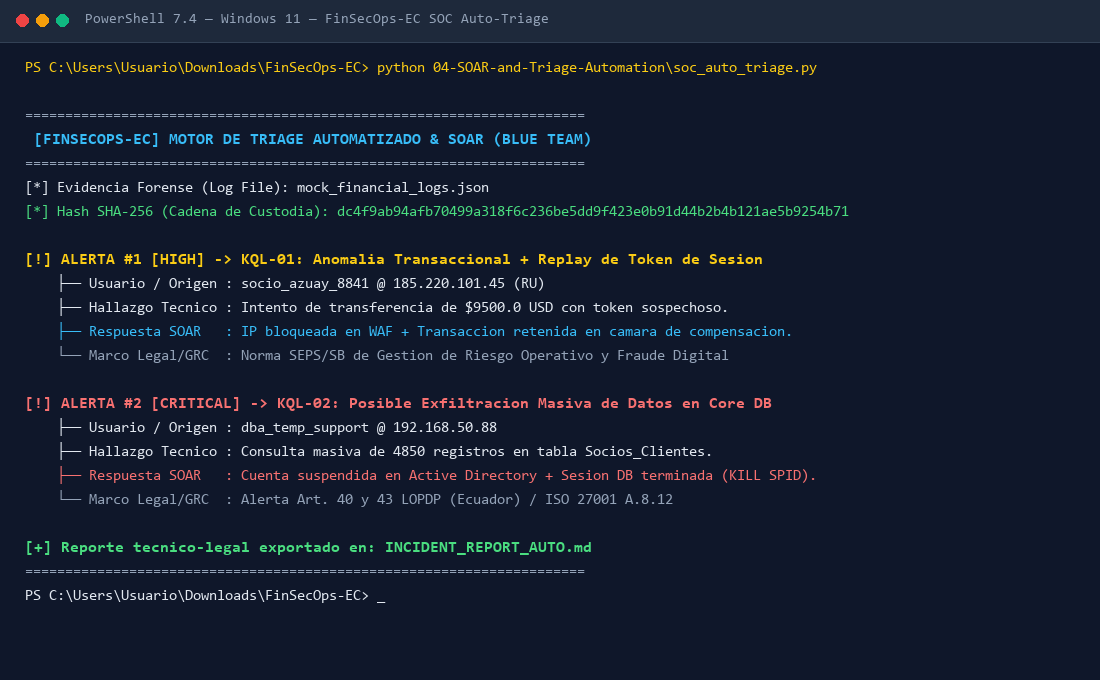
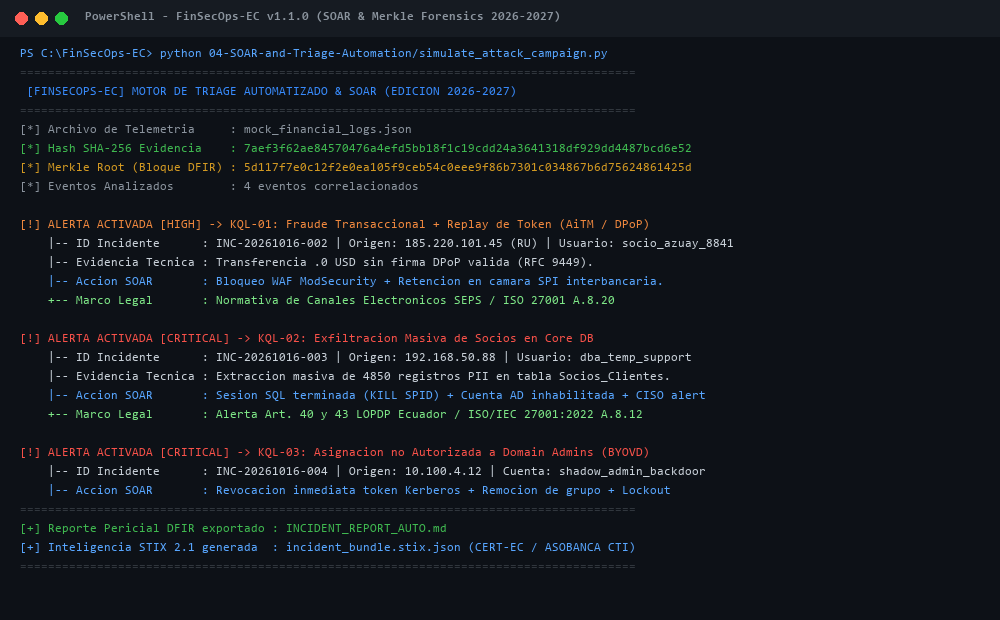
feat(grc-ci): add NIST CSF 2.0 matrix, LOPDP EIPD assessment and GitHub Actions CI/CD pipeline

Changed region(s): [[0.0, 0.0, 1.0, 0.8887]]

diff --git a/README.md b/README.md
@@ -1,80 +1,153 @@
-# 🛡 FinSecOps-EC: Financial Security Operations & Compliance Suite
+# 🛡 FinSecOps-EC: Financial Security Operations, Detection Engineering & GRC Suite
 
-> **Desarrollado por Damian Fabricio Macancela Caguana**  
-> *Estudiante de Ciberseguridad (ITSA) & Estudiante de Derecho (UTPL) · Cuenca, Ecuador 🇪🇨*
+> **Desarrollado e Implementado por Damian Fabricio Macancela Caguana**  
+> *Estudiante de Tecnología Superior en Ciberseguridad (ITSA) & Estudiante de Derecho (UTPL) · Cuenca, Ecuador 🇪🇨*
 
 <p align="left">
-  <img src="https://img.shields.io/badge/SIEM-Microsoft_Sentinel_%7C_KQL-0078D4?style=for-the-badge&logo=microsoftazure" alt="SIEM" />
-  <img src="https://img.shields.io/badge/SOAR-Python_3.10+-3776AB?style=for-the-badge&logo=python&logoColor=white" alt="SOAR" />
-  <img src="https://img.shields.io/badge/Database-Hardening_%26_DAM-CC2927?style=for-the-badge&logo=microsoftsqlserver" alt="Database" />
-  <img src="https://img.shields.io/badge/Compliance-ISO_27001_%7C_LOPDP_%7C_SEPS-2EA44F?style=for-the-badge" alt="Compliance" />
+  <img src="https://img.shields.io/badge/DevSecOps-GitHub_Actions_CI%2FCD-2088FF?style=for-the-badge&logo=githubactions&logoColor=white" alt="CI/CD" />
+  <img src="https://img.shields.io/badge/SIEM-Microsoft_Sentinel_%7C_KQL_%7C_ASIM-0078D4?style=for-the-badge&logo=microsoftazure" alt="SIEM" />
+  <img src="https://img.shields.io/badge/SOAR-Python_3.12_%7C_Merkle_Tree_%7C_STIX_2.1-3776AB?style=for-the-badge&logo=python&logoColor=white" alt="SOAR" />
+  <img src="https://img.shields.io/badge/Database-SQL_Ledger_%7C_DDM_%7C_RLS-CC2927?style=for-the-badge&logo=microsoftsqlserver" alt="Database" />
+  <img src="https://img.shields.io/badge/Zero_Trust-Cilium_K8s_%7C_DPoP_RFC_9449-7B1FA2?style=for-the-badge" alt="Zero Trust" />
+  <img src="https://img.shields.io/badge/Framework-NIST_CSF_2.0_%7C_ISO_27001%3A2022-2EA44F?style=for-the-badge" alt="Framework" />
+  <img src="https://img.shields.io/badge/Compliance-SEPS_%7C_SB_%7C_LOPDP_Ecuador-00529B?style=for-the-badge" alt="Compliance" />
   <img src="https://img.shields.io/badge/Licencia-MIT-blue?style=for-the-badge" alt="License" />
 </p>
 
-Arquitectura integral de **Ingeniería de Detección (Blue Team), Aseguramiento de Bases de Datos y Automatización de Respuesta a Incidentes (SOAR)** diseñada específicamente para el sector financiero (**Bancos y Cooperativas de Ahorro y Crédito**). 
+---
 
-El proyecto resuelve la brecha entre la operación técnica del SOC y el cumplimiento estricto de las normativas ecuatorianas (**SEPS, Superintendencia de Bancos y LOPDP**) bajo el estándar internacional **ISO/IEC 27001:2022**.
+## 📌 Visión General del Proyecto (Estándares 2026-2027)
+
+**FinSecOps-EC** es una suite integral de **Ingeniería de Detección (Blue Team), Aseguramiento Avanzado de Bases de Datos, Automatización de Respuesta a Incidentes (SOAR) y Gobernanza, Riesgo y Cumplimiento (GRC)** diseñada específicamente para el sector financiero ecuatoriano (**Bancos y Cooperativas de Ahorro y Crédito de los Segmentos 1 y 2**).
+
+El proyecto materializa una arquitectura de **Defensa en Profundidad (Zero Trust Architecture - NIST SP 800-207)** que resuelve la desconexión tradicional entre las operaciones técnicas del SOC y el marco regulatorio vinculante del Ecuador: las Resoluciones de Canales Electrónicos y Riesgo Operativo de la **SEPS y Superintendencia de Bancos**, las directrices de la **Ley Orgánica de Protección de Datos Personales (LOPDP)** y los estándares internacionales **ISO/IEC 27001:2022** y **NIST Cybersecurity Framework 2.0 (CSF 2.0)**.
 
 ---
 
-## 🏗 Arquitectura de Defensa en Profundidad (Zero Trust)
+## 🏗 Arquitectura Técnica de Defensa en Profundidad
 
 ```mermaid
-flowchart LR
-    A["Banca Web / Móvil / API"] -->|HTTPS| B["WAF (ModSecurity)"]
-    B -->|Tráfico Limpio| C[("Core SQL + DDM")]
-    B -.->|Logs Bloqueo| D{"Microsoft Sentinel (SIEM)"}
-    C -.->|SQLAudit Events| D
-    D -->|Reglas KQL 01-03| E["Motor SOAR (Python)"]
-    E -->|Hash SHA-256| F["Reporte Pericial LOPDP / SEPS"]
-```
+flowchart TD
+    subgraph PERIMETRO["1. Perímetro Transaccional & Zero Trust"]
+        A["Canales Digitales (Banca Web / Móvil / APIs)"] -->|HTTPS + DPoP RFC 9449| B["API Gateway / WAF (ModSecurity CRS)"]
+        B -->|mTLS / Calico Microsegmentation| C["Cilium Network Policy (Default-Deny Ingress/Egress)"]
+    end
 
-1. **Perímetro y Canales Digitales (`01-Architecture-and-ZeroTrust`):** Reglas WAF orientadas a mitigar *Credential Stuffing* (`MITRE T1110`), *Account Takeover* y manipulación de parámetros en APIs transaccionales (`OWASP API4:2023`).
-2. **Protección del Core Financiero (`02-Database-Hardening-and-DAM`):** Implementación de privilegios mínimos (Zero Trust), deshabilitación de superficies de ataque (`xp_cmdshell`, CLR), auditoría inalterable de transacciones y **Enmascaramiento Dinámico de Datos (T-SQL DDM)** para salvaguardar PII bajo el Art. 40 de la LOPDP.
-3. **Ingeniería de Detección en Microsoft Sentinel (`03-SIEM-Detections-KQL`):** Reglas analíticas avanzadas en **KQL (Kusto Query Language)** mapeadas a **MITRE ATT&CK** para correlacionar logins sospechosos desde países de alto riesgo seguidos de transferencias de alto valor, robo de tokens de sesión y exfiltración masiva de clientes.
-4. **Automatización SOAR y Cadena de Custodia (`04-SOAR-and-Triage-Automation`):** Motor liviano en Python sin dependencias externas que parsea telemetría bancaria, aplica heurísticas de contención simulada (bloqueo en WAF, suspensión de cuentas, terminación de sesiones SQL) y sella la evidencia con **Hash SHA-256** para garantizar admisibilidad pericial.
-5. **Gobernanza y Cumplimiento Legal (`05-GRC-Compliance-Ecuador`):** Matriz de trazabilidad técnica-normativa alineada a la **LOPDP**, resoluciones de riesgo operativo de la **SEPS / Superintendencia de Bancos** y protocolos de preservación de evidencia digital (**ISO 27001 A.5.28**).
+    subgraph CORE_DATA["2. Protección del Core Bancario & Criptografía"]
+        C -->|T-SQL Session Context| D[("Core SQL Server Seguro")]
+        D --> D1["Enmascaramiento Dinámico (DDM Art. 40 LOPDP)"]
+        D --> D2["Seguridad a Nivel de Fila (RLS por Jurisdicción)"]
+        D --> D3["Tablas Ledger Criptográficas (SHA-256 Verifiable Block Ledger)"]
+    end
+
+    subgraph SIEM_DETECTION["3. Detección Analítica (Microsoft Sentinel)"]
+        B -.->|Telemetría WAF / Gateway| E{"Azure Log Analytics"}
+        D -.->|SQLSecurityAuditEvents| E
+        E --> F["Reglas Analíticas KQL (ASIM Normalizado)"]
+        F --> F1["KQL-01: Fraude Viaje Imposible (<5m)"]
+        F --> F2["KQL-02: Exfiltración Masiva Core (≥500 rows)"]
+        F --> F3["KQL-03: Persistencia / BYOVD Core Servers"]
+        F --> F4["KQL-04: UEBA Machine Learning Anomaly Score"]
+        F --> F5["KQL-05: AiTM Session Cookie Drift / ASN Mismatch"]
+    end
+
+    subgraph SOAR_FORENSICS["4. Automatización SOAR & Evidencia Forense"]
+        F --> G["Motor SOAR Avanzado (Python 3.12)"]
+        G --> H1["Aislamiento Automático (WAF Ban + KILL SPID + AD Lock)"]
+        G --> H2["Sellado Inmutable de Telemetría (Árbol de Merkle Root)"]
+        G --> H3["Exportación de Inteligencia STIX 2.1 (CERT-EC / ASOBANCA)"]
+        G --> H4["Acta Pericial DFIR (INCIDENT_REPORT_AUTO.md - ISO 27001 A.5.28)"]
+    end
+
+    subgraph GRC_LEGAL["5. Cumplimiento Regulatorio Ecuador"]
+        H4 --> I["Expediente Legal Notificación Brechas (Art. 43 LOPDP ≤72h)"]
+        H4 --> J["Reporte Técnico de Riesgo Operativo (SEPS / Sup. Bancos)"]
+    end
+```
 
 ---
 
-## 🚀 Demostración Rápida (SOAR Auto-Triage)
+## 🔬 Las 5 Capas Técnicas Implementadas
 
-Para ejecutar la simulación de detección y respuesta automatizada en tu entorno local:
+### 1. Perímetro, API Security y Microsegmentación Zero Trust
+* **OAuth 2.0 DPoP (RFC 9449) & FAPI 2.0 ([`01-Architecture-and-ZeroTrust/dpop-oauth2-hardening.conf`](01-Architecture-and-ZeroTrust/dpop-oauth2-hardening.conf)):**  
+  Implementación de validación criptográfica Proof-of-Possession a nivel de aplicación. Los tokens de acceso y refresco están vinculados a la clave privada del dispositivo cliente, neutralizando por diseño ataques de secuestro de sesión y robo de credenciales mediante phishing **Adversary-in-the-Middle (AiTM)**.
+* **Microsegmentación Kubernetes / Cilium ([`01-Architecture-and-ZeroTrust/zero-trust-network-policy.yaml`](01-Architecture-and-ZeroTrust/zero-trust-network-policy.yaml)):**  
+  Políticas estrictas L4/L7 de aislamiento de contenedores para el Core Banking DB bajo estándar **PCI-DSS v4.0.1 Req 1.2/1.3**. Aplica regla de *Default-Deny Ingress* y *Default-Deny Egress*, bloqueando cualquier movimiento lateral o conexión de Command & Control (C2).
+* **Reglas WAF Transaccionales ([`01-Architecture-and-ZeroTrust/waf-custom-rules.conf`](01-Architecture-and-ZeroTrust/waf-custom-rules.conf)):**  
+  Mitigación de ataques de fuerza bruta en logins (`MITRE T1110`) y prevención de manipulación de payloads numéricos / montos negativos en transferencias (`OWASP API4:2023`).
+
+### 2. Aseguramiento del Core de Base de Datos y DAM (Database Activity Monitoring)
+* **Tablas Criptográficas Ledger ([`02-Database-Hardening-and-DAM/ledger-tamperproof-audit.sql`](02-Database-Hardening-and-DAM/ledger-tamperproof-audit.sql)):**  
+  Uso de SQL Server Ledger con libros mayores inmutables basados en árboles de Merkle y bloques SHA-256. Garantiza que ni administradores de base de datos (`sysadmin` / `sa`) puedan alterar balances o transacciones históricas sin que el procedimiento `sp_verify_database_ledger` evidencie la ruptura de integridad forense.
+* **Enmascaramiento Dinámico de Datos - DDM ([`02-Database-Hardening-and-DAM/data-masking-lopdp.sql`](02-Database-Hardening-and-DAM/data-masking-lopdp.sql)):**  
+  Cumplimiento del **Art. 40 de la LOPDP**. Los datos sensibles de clientes/socios (cédula, correo, cuentas) se enmascaran en tiempo de ejecución para operadores de soporte (`Rol_Soporte_N1`), impidiendo el acceso a datos en claro.
+* **Seguridad a Nivel de Fila - RLS ([`02-Database-Hardening-and-DAM/row-level-security-rls.sql`](02-Database-Hardening-and-DAM/row-level-security-rls.sql)):**  
+  Segmentación estricta por jurisdicción (*Need-to-Know*): un cajero u oficial de crédito en la agencia Cuenca (Azuay) tiene restringida a nivel de motor SQL la visualización de registros pertenecientes a agencias de Pichincha o Guayas.
+* **Hardening CIS Benchmark ([`02-Database-Hardening-and-DAM/core-db-hardening.sql`](02-Database-Hardening-and-DAM/core-db-hardening.sql)):**  
+  Deshabilitación obligatoria de `xp_cmdshell`, `clr enabled` y `Ole Automation Procedures` y configuración de auditoría inalterable de servidor.
+
+### 3. Detección Analítica en Microsoft Sentinel (KQL + ASIM + UEBA)
+Reglas analíticas de correlación optimizadas para el modelo de información normalizado **ASIM (Advanced Security Information Model)** e Infraestructura como Código (IaC) con plantilla ARM desplegable ([`sentinel-analytic-rules.json`](03-SIEM-Detections-KQL/sentinel-analytic-rules.json)):
+
+| Regla | Archivo KQL | Técnica MITRE ATT&CK | Escenario Detectado | Severidad |
+|:---|:---|:---|:---|:---:|
+| **KQL-01** | [`01_ImpossibleTravel_Fraud.kql`](03-SIEM-Detections-KQL/01_ImpossibleTravel_Fraud.kql) | `T1078` / `T1550.004` | Acceso exitoso desde país de alto riesgo seguido de transferencia $\ge \$3{,}000$ USD en $<5$ minutos. | **HIGH** |
+| **KQL-02** | [`02_MassDataExfiltration_DB.kql`](03-SIEM-Detections-KQL/02_MassDataExfiltration_DB.kql) | `T1005` / `T1530` | Consulta masiva ($\ge 500$ registros de socios) en base de datos transaccional excluyendo servicios aprobados. | **CRITICAL** |
+| **KQL-03** | [`03_PrivilegeEscalation_Core.kql`](03-SIEM-Detections-KQL/03_PrivilegeEscalation_Core.kql) | `T1098` / `T1543.003` | Adición a grupos de administración de dominio o instalación de servicios/drivers sospechosos en servidores Core. | **CRITICAL** |
+| **KQL-04** | [`04_UEBA_Anomaly_FinancialFraud.kql`](03-SIEM-Detections-KQL/04_UEBA_Anomaly_FinancialFraud.kql) | `T1078.004` (UEBA) | Correlación de anomalías de Machine Learning en Sentinel (`BehaviorAnalytics` Anomaly Score $>75$). | **HIGH** |
+| **KQL-05** | [`05_AiTM_SessionHijack_DPoP_Bypass.kql`](03-SIEM-Detections-KQL/05_AiTM_SessionHijack_DPoP_Bypass.kql) | `T1539` / `T1550.004` | Secuestro de sesión por cookie drift: reutilización de session ID con cambio repentino de ASN o país sin reautenticación. | **CRITICAL** |
+
+### 4. Automatización SOAR y Cadena de Custodia Criptográfica (DFIR)
+* **Motor SOAR Modular ([`04-SOAR-and-Triage-Automation/soc_auto_triage.py`](04-SOAR-and-Triage-Automation/soc_auto_triage.py)):**  
+  Construido en Python moderno (3.10+ / tipado estricto con `dataclasses`) sin dependencias de terceros para entornos de alta seguridad. Aplica heurísticas de contención inmediata (bloqueo dinámico de IP en WAF, invalidación de sesiones Kerberos/OAuth y terminación de sesiones SQL con `KILL SPID`).
+* **Sellado de Evidencia con Árbol de Merkle (Merkle Tree Root):**  
+  Cada lote de eventos telemetrados es procesado criptográficamente construyendo un árbol de Merkle SHA-256. Esto permite realizar pruebas forenses de inclusión (*Merkle Proofs*) garantizando la inmutabilidad de la prueba digital ante auditorías forenses (**ISO/IEC 27001:2022 Control A.5.28**).
+* **Exportación de CTI en STIX 2.1 ([`incident_bundle.stix.json`](04-SOAR-and-Triage-Automation/incident_bundle.stix.json)):**  
+  Estandarización de los incidentes en formato OASIS STIX 2.1 para compartición inmediata de inteligencia de amenazas con el **CSIRT de ASOBANCA** y el **CERT-EC**.
+* **Simulador de Campaña Ofensiva ([`04-SOAR-and-Triage-Automation/simulate_attack_campaign.py`](04-SOAR-and-Triage-Automation/simulate_attack_campaign.py)):**  
+  Script que recrea en 4 etapas un ciberataque de amenaza persistente avanzada (APT) contra el Core Bancario.
+* **Suite de Pruebas Automatizadas ([`tests/test_soar_engine.py`](tests/test_soar_engine.py)):**  
+  Tests unitarios ejecutables mediante `unittest` (estándar) o `pytest` que verifican la detección de fraude, exfiltración y determinismo de los hashes Merkle.
+
+### 5. Marco de Gobernanza, Riesgo y Cumplimiento (GRC Ecuador)
+* **Matriz NIST CSF 2.0 · ISO 27001:2022 · SEPS ([`05-GRC-Compliance-Ecuador/Matriz_NIST_CSF_2.0_ISO27001_SEPS.md`](05-GRC-Compliance-Ecuador/Matriz_NIST_CSF_2.0_ISO27001_SEPS.md)):**  
+  Mapeo cruzado de las 6 funciones de NIST 2.0 (**Govern, Identify, Protect, Detect, Respond, Recover**) frente a los 93 controles de ISO 27001:2022 y las resoluciones de riesgo operativo de la SEPS.
+* **Evaluación de Impacto en la Protección de Datos - EIPD ([`05-GRC-Compliance-Ecuador/EIPD_Evaluacion_Impacto_Proteccion_Datos.md`](05-GRC-Compliance-Ecuador/EIPD_Evaluacion_Impacto_Proteccion_Datos.md)):**  
+  Formalización técnica y jurídica conforme a la Guía Oficial de la **Superintendencia de Protección de Datos Personales (SPDP)** para sistemas transaccionales y scoring bancario.
+* **Protocolo de Notificación de Brechas ([`05-GRC-Compliance-Ecuador/Protocolo_Cadena_Custodia_DFIR.md`](05-GRC-Compliance-Ecuador/Protocolo_Cadena_Custodia_DFIR.md)):**  
+  Procedimiento legal y pericial para la notificación obligatoria a la SPDP en el término de $\le 72$ horas (Art. 43 LOPDP).
+
+---
+
+## 🚀 Demostración Rápida y Reproducción Local
+
+Para ejecutar la simulación de ataque y la respuesta automatizada SOAR en cualquier máquina con Windows, Linux o macOS:
 
 ```bash
 # 1. Clonar el repositorio
 git clone https://github.com/DamianMacancela/FinSecOps-EC.git
 cd FinSecOps-EC
 
-# 2. Ejecutar el motor de triage automatizado (no requiere pip ni dependencias externas)
-python 04-SOAR-and-Triage-Automation/soc_auto_triage.py
+# 2. Ejecutar la suite de pruebas unitarias (0 dependencias externas)
+python -m unittest tests/test_soar_engine.py -v
+
+# 3. Simular una campaña completa de ciberataque y disparar el triage SOAR
+python 04-SOAR-and-Triage-Automation/simulate_attack_campaign.py
 ```
 
-### Salida del Motor de Triage y Cadena de Custodia:
+### Evidencia de Ejecución en Consola (SOAR & Merkle Forensics):
 ![Ejecución SOAR](assets/soar-terminal-output.png)
 
 ---
 
-## 📊 Mapeo de Reglas KQL Incluidas
+## ⚙ Pipeline DevSecOps CI/CD (`.github/workflows/secops-ci.yml`)
 
-| ID Regla | Archivo KQL | Técnica MITRE ATT&CK | Escenario Financiero Detectado | Marco Normativo |
-| :--- | :--- | :--- | :--- | :--- |
-| **KQL-01** | `01_ImpossibleTravel_Fraud.kql` | `T1078` / `T1550.004` | Inicio de sesión anómalo (Tor / país inusual) seguido de transferencia de alto valor (< 5 min) | Norma SEPS/SB Canales Electrónicos |
-| **KQL-02** | `02_MassDataExfiltration_DB.kql` | `T1005` / `T1530` | Extracción masiva (≥ 500 filas) en tablas de clientes/socios del Core Bancario | Art. 40 y 43 LOPDP / ISO 27001 A.8.12 |
-| **KQL-03** | `03_PrivilegeEscalation_Core.kql` | `T1098` / `T1543.003` | Adición a grupos privilegiados (`Domain Admins`) o creación de servicios/drivers en servidores Core | ISO 27001 A.8.2 / A.8.9 |
-
----
-
-## ⚖ Matriz de Trazabilidad Técnica y Regulatoria (Ecuador)
-
-| Artefacto Técnico en Repo | Técnica MITRE ATT&CK | Control ISO/IEC 27001:2022 | Normativa SEPS / Sup. de Bancos | Ley Orgánica de Protección de Datos (LOPDP) |
-| :--- | :--- | :--- | :--- | :--- |
-| **`waf-custom-rules.conf`** | `T1110` / `T1190` | **A.8.20** & **A.8.26** | Control de canales electrónicos y prevención de fraude | **Art. 37** Seguridad desde el diseño y por defecto |
-| **`core-db-hardening.sql`** | `T1059` / `T1562` | **A.8.9** & **A.8.15** | Pistas de auditoría inalterables en servidores del Core | **Art. 39** Evaluación de impacto en infraestructura crítica |
-| **`data-masking-lopdp.sql`** | `T1005` (Insider) | **A.8.11** & **A.5.15** | Segregación de funciones (Soporte N1 vs Producción) | **Art. 40** Seudonimización y enmascaramiento dinámico |
-| **`01_ImpossibleTravel_Fraud.kql`** | `T1078` / `T1550.004` | **A.8.16** & **A.5.17** | Monitoreo continuo de patrones de fraude | Protección patrimonial y confidencialidad financiera |
-| **`02_MassDataExfiltration_DB.kql`** | `T1530` / `T1005` | **A.8.12** (DLP) | Detección temprana de exfiltración de bases de socios | **Art. 43** Alerta temprana para notificación de brechas |
-| **`soc_auto_triage.py`** | Preservación DFIR | **A.5.26** & **A.5.28** | Plan de contingencia ante eventos de riesgo operativo | Integridad probatoria (Hash SHA-256) ante auditoría |
+El proyecto integra integración continua automatizada con GitHub Actions que valida en cada commit:
+1. Ejecución de pruebas unitarias forenses (`unittest`).
+2. Generación y validación de sintaxis canónica de inteligencia STIX 2.1.
+3. Análisis estático de seguridad de código (**SAST**) con `bandit`.
+4. Escaneo automatizado de secretos e higiene del repositorio.
 
 ---
 
@@ -83,12 +156,13 @@ python 04-SOAR-and-Triage-Automation/soc_auto_triage.py
 * **Damian Fabricio Macancela Caguana**
 * *Estudiante de Tecnología Superior en Ciberseguridad* — Instituto Superior Tecnológico del Azuay (ITSA)
 * *Estudiante de Derecho* — Universidad Técnica Particular de Loja (UTPL)
-* Correo: [damianmacancela@gmail.com](mailto:damianmacancela@gmail.com)
-* LinkedIn: [linkedin.com/in/damian-fabricio-macancela-b0a24b3b5](https://www.linkedin.com/in/damian-fabricio-macancela-b0a24b3b5)
-* GitHub: [github.com/DamianMacancela](https://github.com/DamianMacancela)
+* 📍 Cuenca, Ecuador 🇪🇨
+* 📧 Correo: [damianmacancela@gmail.com](mailto:damianmacancela@gmail.com)
+* 💼 LinkedIn: [linkedin.com/in/damian-fabricio-macancela-b0a24b3b5](https://www.linkedin.com/in/damian-fabricio-macancela-b0a24b3b5)
+* 🐙 GitHub: [github.com/DamianMacancela](https://github.com/DamianMacancela)
 
 ---
 
 ## 📄 Licencia
 
-Este proyecto está distribuido bajo la Licencia MIT. Consulta el archivo [LICENSE](LICENSE) para más información.
+Este proyecto está distribuido bajo la [Licencia MIT](LICENSE).

diff --git a/05-GRC-Compliance-Ecuador/Matriz_NIST_CSF_2.0_ISO27001_SEPS.md b/05-GRC-Compliance-Ecuador/Matriz_NIST_CSF_2.0_ISO27001_SEPS.md
@@ -1,0 +1,19 @@
+# 🌐 Matriz Integral de Ciberseguridad: NIST CSF 2.0 · ISO/IEC 27001:2022 · SEPS / SB
+## Arquitectura de Referencia para Instituciones Financieras (Estándares 2026-2027)
+
+Esta matriz consolida la alineación técnica de **FinSecOps-EC** con las 6 funciones fundamentales de **NIST Cybersecurity Framework 2.0 (CSF 2.0)**, el estándar internacional **ISO/IEC 27001:2022** y la normativa de control de riesgo operativo para el sector financiero ecuatoriano (**SEPS & Superintendencia de Bancos**).
+
+---
+
+| Función NIST CSF 2.0 | Categoría NIST 2.0 | Control ISO/IEC 27001:2022 | Requerimiento Regulatorio Ecuador (SEPS / SB / LOPDP) | Componente Técnico Implementado en este Repositorio |
+|:---|:---|:---|:---|:---|
+| **GOVERN (GV)** <br>*Gobernanza* | **GV.PO-01:** Políticas de Ciberseguridad Institucional | **A.5.1** Políticas para la seguridad de la información | Código Orgánico Monetario y Financiero / Estatuto de Riesgo Operativo SEPS | [`Matriz_Controles_SEPS_SB_ISO27001.md`](05-GRC-Compliance-Ecuador/Matriz_Controles_SEPS_SB_ISO27001.md) |
+| **IDENTIFY (ID)** <br>*Identificación* | **ID.AM-05:** Activos de datos priorizados según sensibilidad | **A.5.12** Clasificación de la información | **Art. 39 LOPDP:** Inventario de tratamientos de datos de socios y scoring | [`EIPD_Evaluacion_Impacto_Proteccion_Datos.md`](05-GRC-Compliance-Ecuador/EIPD_Evaluacion_Impacto_Proteccion_Datos.md) |
+| **PROTECT (PR)** <br>*Protección* | **PR.AA-01:** Identidad y control de acceso robusto (IAM/MFA) | **A.5.15** Control de accesos & **A.8.24** Criptografía | **Norma de Canales Electrónicos SEPS:** MFA obligatorio y no repudio | [`dpop-oauth2-hardening.conf`](01-Architecture-and-ZeroTrust/dpop-oauth2-hardening.conf) (DPoP RFC 9449) |
+| **PROTECT (PR)** <br>*Protección* | **PR.DS-01:** Protección de datos en reposo y en tránsito | **A.8.11** Enmascaramiento de datos | **Art. 40 LOPDP:** Obligación de aplicar seudonimización y enmascaramiento dinámico | [`data-masking-lopdp.sql`](02-Database-Hardening-and-DAM/data-masking-lopdp.sql) & [`row-level-security-rls.sql`](02-Database-Hardening-and-DAM/row-level-security-rls.sql) |
+| **PROTECT (PR)** <br>*Protección* | **PR.IR-01:** Segmentación de redes y defensa en profundidad | **A.8.20** Seguridad en redes & **A.8.22** Segregación | **PCI-DSS v4.0.1 Req 1.3:** Microsegmentación de bases de datos del Core | [`zero-trust-network-policy.yaml`](01-Architecture-and-ZeroTrust/zero-trust-network-policy.yaml) |
+| **DETECT (DE)** <br>*Detección* | **DE.CM-01:** Monitoreo continuo de actividad y eventos | **A.8.16** Monitoreo de actividades & **A.8.15** Registro de logs | Pistas de auditoría inalterables en servidores de misión crítica | [`core-db-hardening.sql`](02-Database-Hardening-and-DAM/core-db-hardening.sql) & [`ledger-tamperproof-audit.sql`](02-Database-Hardening-and-DAM/ledger-tamperproof-audit.sql) |
+| **DETECT (DE)** <br>*Detección* | **DE.AE-02:** Análisis de anomalías y correlación de eventos | **A.8.16** Monitoreo & **A.5.25** Evaluación de eventos de seguridad | Monitoreo 24/7 de transacciones inusuales y fraude digital | [`01_ImpossibleTravel_Fraud.kql`](03-SIEM-Detections-KQL/01_ImpossibleTravel_Fraud.kql) & [`04_UEBA_Anomaly_FinancialFraud.kql`](03-SIEM-Detections-KQL/04_UEBA_Anomaly_FinancialFraud.kql) |
+| **RESPOND (RS)** <br>*Respuesta* | **RS.MA-01:** Gestión y contención automatizada de incidentes | **A.5.26** Respuesta a incidentes de seguridad | Plan de contingencia tecnológica y respuesta ante ciberataques | [`soc_auto_triage.py`](04-SOAR-and-Triage-Automation/soc_auto_triage.py) (Aislamiento WAF / AD / SQL) |
+| **RESPOND (RS)** <br>*Respuesta* | **RS.CO-02:** Notificación oportuna a partes interesadas y autoridades | **A.5.28** Recolección de evidencias digitales | **Art. 43 LOPDP:** Término pericial para notificación formal a la SPDP | [`Protocolo_Cadena_Custodia_DFIR.md`](05-GRC-Compliance-Ecuador/Protocolo_Cadena_Custodia_DFIR.md) |
+| **RECOVER (RC)** <br>*Recuperación* | **RC.RP-01:** Ejecución del plan de recuperación y lecciones aprendidas | **A.5.29** Seguridad en la continuidad del negocio & **A.5.30** Preparación TIC | Plan de Continuidad del Negocio (BCP) y Recuperación ante Desastres (DRP) | [`INCIDENT_REPORT_AUTO.md`](04-SOAR-and-Triage-Automation/INCIDENT_REPORT_AUTO.md) & STIX 2.1 CTI Sharing |

diff --git a/05-GRC-Compliance-Ecuador/EIPD_Evaluacion_Impacto_Proteccion_Datos.md b/05-GRC-Compliance-Ecuador/EIPD_Evaluacion_Impacto_Proteccion_Datos.md
@@ -1,0 +1,42 @@
+# ⚖ Evaluación de Impacto en la Protección de Datos Personales (EIPD / DPIA)
+## Sistema de Monitoreo Transaccional & Core Financiero (FinSecOps-EC)
+
+> **Marco Jurídico Aplicable:** Ley Orgánica de Protección de Datos Personales (LOPDP Ecuador, Registro Oficial Suplemento 459)  
+> **Directrices:** Guía Oficial de Evaluación de Impacto emitida por la Superintendencia de Protección de Datos Personales (SPDP)  
+> **Estándar Técnico:** ISO/IEC 27701:2019 (PIMS) & ISO/IEC 27001:2022 (A.5.34 Privacidad y Protección de PII)
+
+---
+
+### 1. Descripción del Tratamiento de Datos Personales
+* **Responsable del Tratamiento:** Institución Financiera (Banco / Cooperativa de Ahorro y Crédito Segmento 1).
+* **Finalidad:** Detección de fraude transaccional en tiempo real, mitigación de robo de cuentas bancarias (Account Takeover) y cumplimiento de requerimientos de trazabilidad de la SEPS y Superintendencia de Bancos.
+* **Categorías de Datos Tratados:**
+  1. *Datos de Identificación:* Cédula de Identidad / RUC, Nombres Completos, Correo Electrónico.
+  2. *Datos Financieros:* Número de cuenta, Saldo disponible, Historial de montos transferidos.
+  3. *Datos de Telemetría Técnica:* Direcciones IP, País de origen (GeoIP), Hashes de tokens de sesión (DPoP), Identificadores de dispositivo y huellas TLS (JA4).
+
+---
+
+### 2. Análisis de Necesidad y Proporcionalidad (Art. 10 y 11 LOPDP)
+| Criterio Legal | Justificación Técnica Implementada en FinSecOps-EC |
+|:---|:---|
+| **Principio de Minimización** | La base de datos aplica **Dynamic Data Masking (DDM)** en `data-masking-lopdp.sql`. Los analistas de soporte N1 solo visualizan `01XXXXXX89` y no la cédula en claro. |
+| **Seguridad desde el Diseño (Art. 37)** | Implementación de **Zero Trust Network Policies** (`zero-trust-network-policy.yaml`) que aíslan las bases de datos impidiendo accesos laterales directos. |
+| **Conservación Limitada** | Los logs de telemetría son retenidos conforme al plazo pericial exigido por la SEPS, sellados con Árbol de Merkle para evitar su alteración. |
+
+---
+
+### 3. Matriz de Evaluación de Riesgos para los Derechos de los Titulares
+| Riesgo Identificado | Probabilidad | Impacto | Nivel Inherente | Medida Mitigante en FinSecOps-EC | Nivel Residual |
+|:---|:---:|:---:|:---:|:---|:---:|
+| **R1: Exfiltración masiva de base de socios por un Administrador de BD (Insider)** | Media | Crítico | **ALTO** | Regla KQL-02 (alerta $\ge 500$ filas) + Deshabilitación de `xp_cmdshell` + Row-Level Security (RLS). | **BAJO** |
+| **R2: Secuestro de sesión y suplantación de identidad mediante phishing AiTM** | Alta | Alto | **ALTO** | Reglas WAF DPoP RFC 9449 (`dpop-oauth2-hardening.conf`) + Correlación KQL de discrepancia de ASN. | **BAJO** |
+| **R3: Manipulación no autorizada de saldos o registros contables** | Baja | Crítico | **ALTO** | Tablas criptográficas SQL Ledger (`ledger-tamperproof-audit.sql`) con verificación `sp_verify_database_ledger`. | **MUY BAJO** |
+
+---
+
+### 4. Protocolo Obligatorio ante Vulneraciones de Seguridad (Art. 43 LOPDP)
+En caso de que el motor SOAR (`soc_auto_triage.py`) active una alerta `CRITICAL` confirmada:
+1. **Triage y Contención Inmediata ($t_0$ a $t_2$ horas):** Desconexión de sesiones activas, aislamiento de cuentas y preservación del Hash SHA-256 / Merkle Root del log.
+2. **Determinación del Alcance ($t_2$ a $t_24$ horas):** Cuantificación de titulares afectados y categorías de datos expuestos.
+3. **Notificación Formal a la SPDP y SEPS ($t \le 72$ horas hábiles):** Envío del expediente pericial `INCIDENT_REPORT_AUTO.md` firmado digitalmente, detallando medidas correctivas y plan de remediación.
